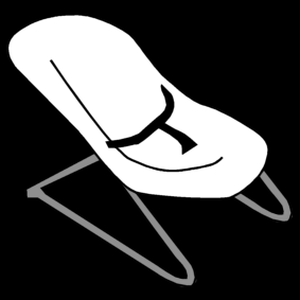
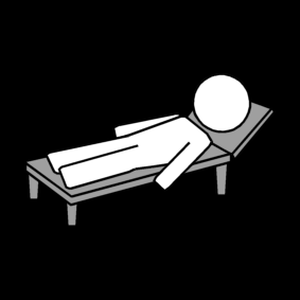
Knop 'ik ben het vergeten' weg; andere Sclera-picto's voor chill en familie bezoeken
Claude-Session: https://claude.ai/code/session_015bxtAixKMN6TavHAtChEBQ

diff --git a/sclera/picto/lijst.js b/sclera/picto/lijst.js
@@ -1,2 +1,2 @@
 // Automatisch gemaakt door maak_sclera.py: welke Sclera-picto's er in sclera/picto/ staan.
-window.BEELDEN = ["anders", "aperitieven", "bakken-koken", "basketbal", "bezoek-krijgen", "bibliotheek", "blok-ja", "blok-nee", "blok-weet", "boek", "bos", "cat-actief", "cat-anders", "cat-chill", "cat-gezellig", "cinema", "dansen", "dierentuin", "douchen-bad", "familie-bezoeken", "feestje", "fietsen", "g-apero-eten", "g-bezoek", "g-creatief", "g-schermtijd", "g-spelen-actief", "g-spelen-samen", "g-verzorging", "g-weet-niet-meer", "g-wil-niet-vertellen", "gaan-eten", "gamen", "geen-zin", "gezelschapsspel", "helpen-thuis", "hockey", "hoe-gewoon", "hoe-leuk", "hoe-niet", "hoe-super", "hoeft-niet", "in-de-tuin", "jeugdbeweging", "judo", "kapper", "knutselen", "markt", "muurklimmen", "muziek", "naar-de-speeltuin", "niet-goed", "optreden", "pretpark", "puzzelen", "rijden", "rusten", "samen-spelen", "schilderen", "speeltuin", "sporten", "stad", "start-voorlezen", "start-zelf", "stem-man", "stem-vrouw", "tablet", "tekenen", "thuis-eten", "trampoline", "tv-film", "uitslapen", "uitstap", "vergeten", "verjaardag", "vissen", "voetballen", "vrienden-bezoeken", "waar-anders", "waar-buiten", "waar-cafe", "waar-familie", "waar-frituur", "waar-restaurant", "waar-sportclub", "waar-thuis", "waar-winkel", "waarweet-ja", "waarweet-nee", "wann-vrijdagavond", "wann-weekend", "wann-weet", "wann-zaterdag", "wann-zondag", "wie-alleen", "wie-broer-zus", "wie-familie", "wie-groep", "wie-mama", "wie-papa", "wie-vriend", "winkelen", "zetel", "zwemmen"];
+window.BEELDEN = ["anders", "aperitieven", "bakken-koken", "basketbal", "bezoek-krijgen", "bibliotheek", "blok-ja", "blok-nee", "blok-weet", "boek", "bos", "cat-actief", "cat-anders", "cat-chill", "cat-gezellig", "cinema", "dansen", "dierentuin", "douchen-bad", "familie-bezoeken", "feestje", "fietsen", "g-apero-eten", "g-bezoek", "g-creatief", "g-schermtijd", "g-spelen-actief", "g-spelen-samen", "g-verzorging", "g-weet-niet-meer", "g-wil-niet-vertellen", "gaan-eten", "gamen", "geen-zin", "gezelschapsspel", "helpen-thuis", "hockey", "hoe-gewoon", "hoe-leuk", "hoe-niet", "hoe-super", "hoeft-niet", "in-de-tuin", "jeugdbeweging", "judo", "kapper", "knutselen", "markt", "muurklimmen", "muziek", "naar-de-speeltuin", "niet-goed", "optreden", "pretpark", "puzzelen", "rijden", "rusten", "samen-spelen", "schilderen", "speeltuin", "sporten", "stad", "start-voorlezen", "start-zelf", "stem-man", "stem-vrouw", "tablet", "tekenen", "thuis-eten", "trampoline", "tv-film", "uitslapen", "uitstap", "verjaardag", "vissen", "voetballen", "vrienden-bezoeken", "waar-anders", "waar-buiten", "waar-cafe", "waar-familie", "waar-frituur", "waar-restaurant", "waar-sportclub", "waar-thuis", "waar-winkel", "waarweet-ja", "waarweet-nee", "wann-vrijdagavond", "wann-weekend", "wann-weet", "wann-zaterdag", "wann-zondag", "wie-alleen", "wie-broer-zus", "wie-familie", "wie-groep", "wie-mama", "wie-papa", "wie-vriend", "winkelen", "zetel", "zwemmen"];

diff --git a/inhoud.js b/inhoud.js
@@ -229,7 +229,6 @@ window.INHOUD = {
       "scene": "a friendly signpost in a park with arrows pointing in different directions; one sign shows a big question mark",
       "groepen": [
         {"id": "weet-niet-meer", "woord": "ik weet het niet meer", "spreek": "Ik weet het niet meer.", "emoji": "🤔", "beeld": "g-weet-niet-meer", "scene": "an empty notebook lying open on a table, with a big question mark drawn on the empty page", "zin": "Jij weet het niet meer?", "lagen": false},
-        {"id": "vergeten", "woord": "ik ben het vergeten", "spreek": "Ik ben het vergeten.", "emoji": "🤔", "zin": "Jij bent het vergeten?", "lagen": false},
         {"id": "echt-iets-anders", "woord": "echt nog iets anders", "spreek": "Ik deed echt nog iets anders.", "emoji": "💬", "beeld": "anders", "typ": true},
         {
           "id": "wil-niet-vertellen",

diff --git a/maak_sclera.py b/maak_sclera.py
@@ -22,13 +22,13 @@ KEUZE = {
     # start en stemmen
     "start-zelf": "vertellen", "start-voorlezen": "voorlezen", "stem-vrouw": "vrouw", "stem-man": "man",
     # kleuren
-    "cat-actief": "sport en spel", "cat-gezellig": "groep gezellig", "cat-chill": "relax", "cat-anders": "vraagteken",
+    "cat-actief": "sport en spel", "cat-gezellig": "groep gezellig", "cat-chill": "ligzetel liggen", "cat-anders": "vraagteken",
     # groepen
     "sporten": "sport", "g-spelen-actief": "spelen buiten", "uitstap": "uitstap",
     "g-creatief": "creatief met materiaal", "g-spelen-samen": "spelletje bezig meedoen", "feestje": "fuif",
     "g-apero-eten": "aperitief", "g-bezoek": "op bezoek",
     "g-schermtijd": "tv kijken", "rusten": "hangmat", "g-verzorging": "bad douche",
-    "g-weet-niet-meer": "nadenken", "vergeten": "nadenken 2", "anders": "anders", "g-wil-niet-vertellen": "zwijgen",
+    "g-weet-niet-meer": "nadenken", "anders": "anders", "g-wil-niet-vertellen": "zwijgen",
     # actief
     "basketbal": "basketball", "muurklimmen": "bergbeklimmen", "zwemmen": "zwemmen 4", "fietsen": "fietsen bos",
     "voetballen": "voetbal 3", "dansen": "dansen", "hockey": "hockey 2", "judo": "Oosterse sporten", "vissen": "vissen 2",
@@ -40,7 +40,7 @@ KEUZE = {
     "knutselen": "knutselen", "tekenen": "tekenen", "schilderen": "schilderen", "puzzelen": "puzzelen 2",
     "gezelschapsspel": "gezelschapsspel", "samen-spelen": "spelen binnen", "verjaardag": "Verjaardag",
     "bakken-koken": "koken ik", "aperitieven": "zoute snacks", "gaan-eten": "uit eten gaan", "thuis-eten": "maaltijd thuis",
-    "bezoek-krijgen": "bezoek van", "familie-bezoeken": "huis school grootouders",
+    "bezoek-krijgen": "bezoek van", "familie-bezoeken": "grootouders 2",
     "vrienden-bezoeken": "spelen ik bij vriendje 2",
     # chill
     "tv-film": "tv kijken 2", "tablet": "tablet computer", "gamen": "playstation", "muziek": "muziek luisteren",
@@ -52,7 +52,7 @@ KEUZE = {
     "wie-alleen": "spelen binnen alleen", "wie-mama": "moeder 2", "wie-papa": "vader 2", "wie-broer-zus": "liefde zus broer",
     "wie-familie": "familie", "wie-vriend": "vrienden 2", "wie-groep": "groep 3",
     # waar
-    "waar-thuis": "thuis 2", "waar-buiten": "buiten 2", "waar-familie": "huis school grootouders",
+    "waar-thuis": "thuis 2", "waar-buiten": "buiten 2", "waar-familie": "grootouders 2",
     "waar-winkel": "supermarkt", "waar-restaurant": "restaurant", "waar-frituur": "frietjes", "waar-sportclub": "sporthal",
     "waar-cafe": "café", "waar-anders": "waar",
     # wanneer (zaterdag en zondag: geen Sclera-picto, zie DAGEN)
